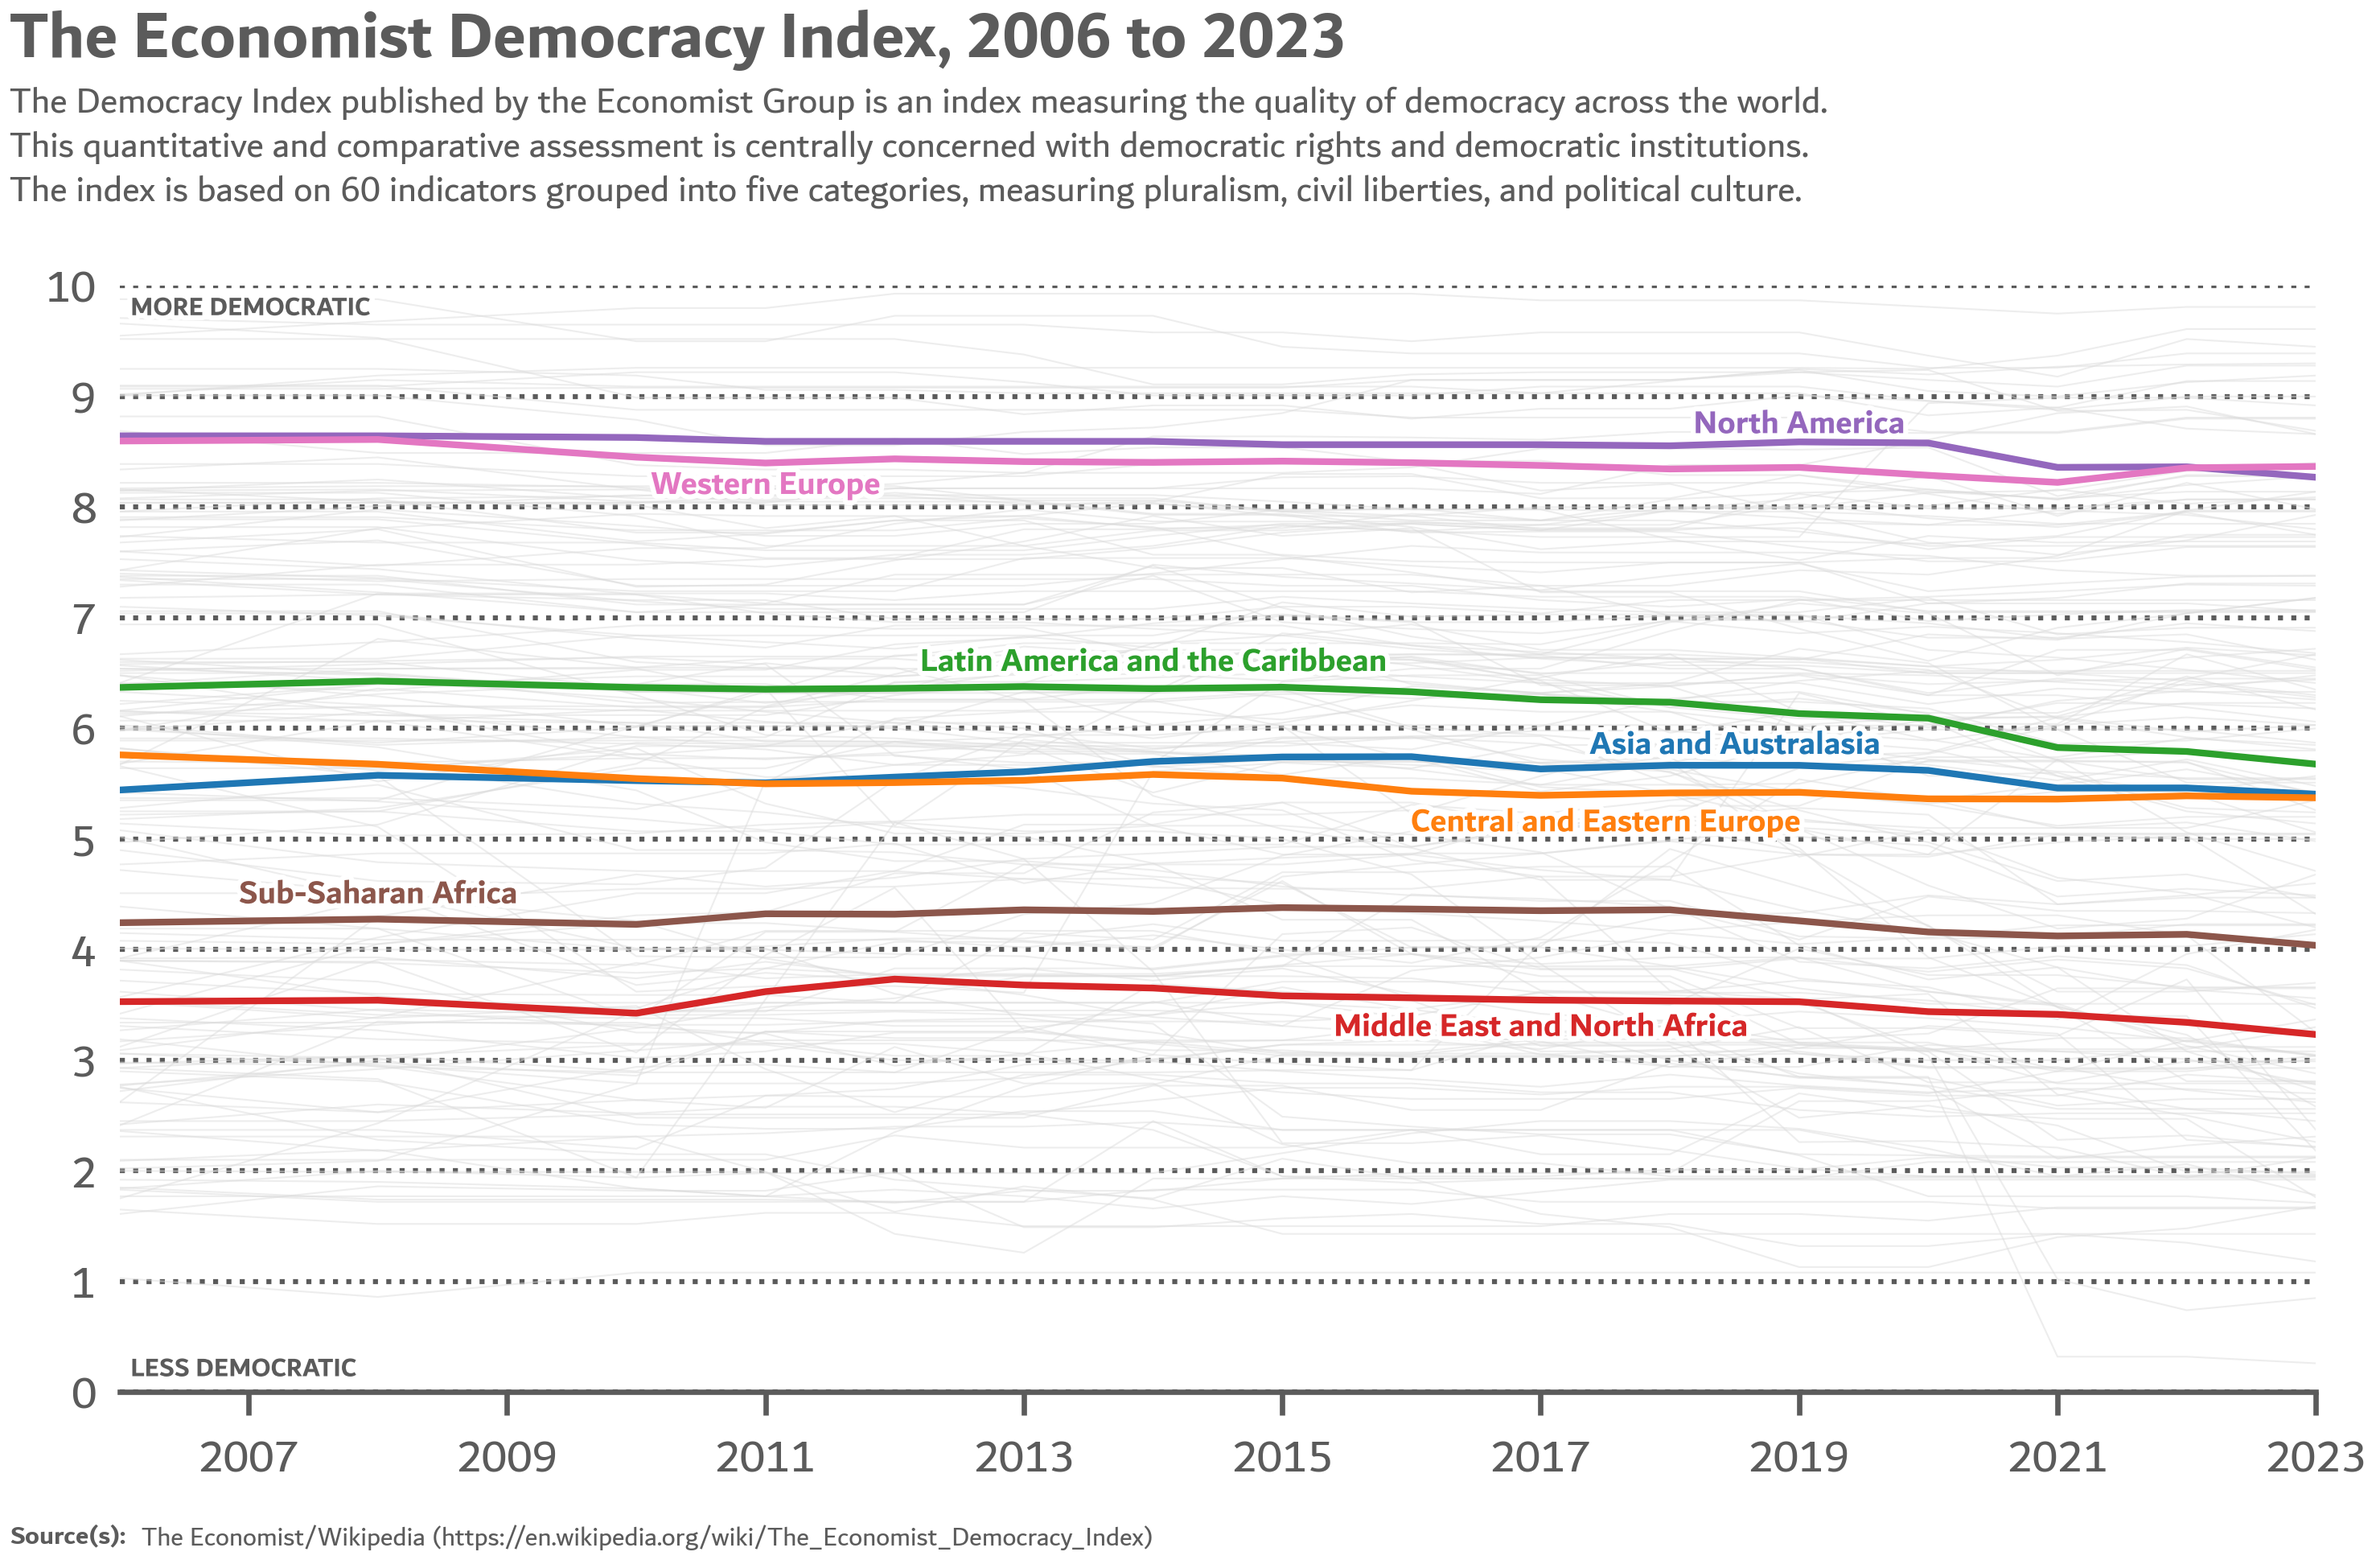
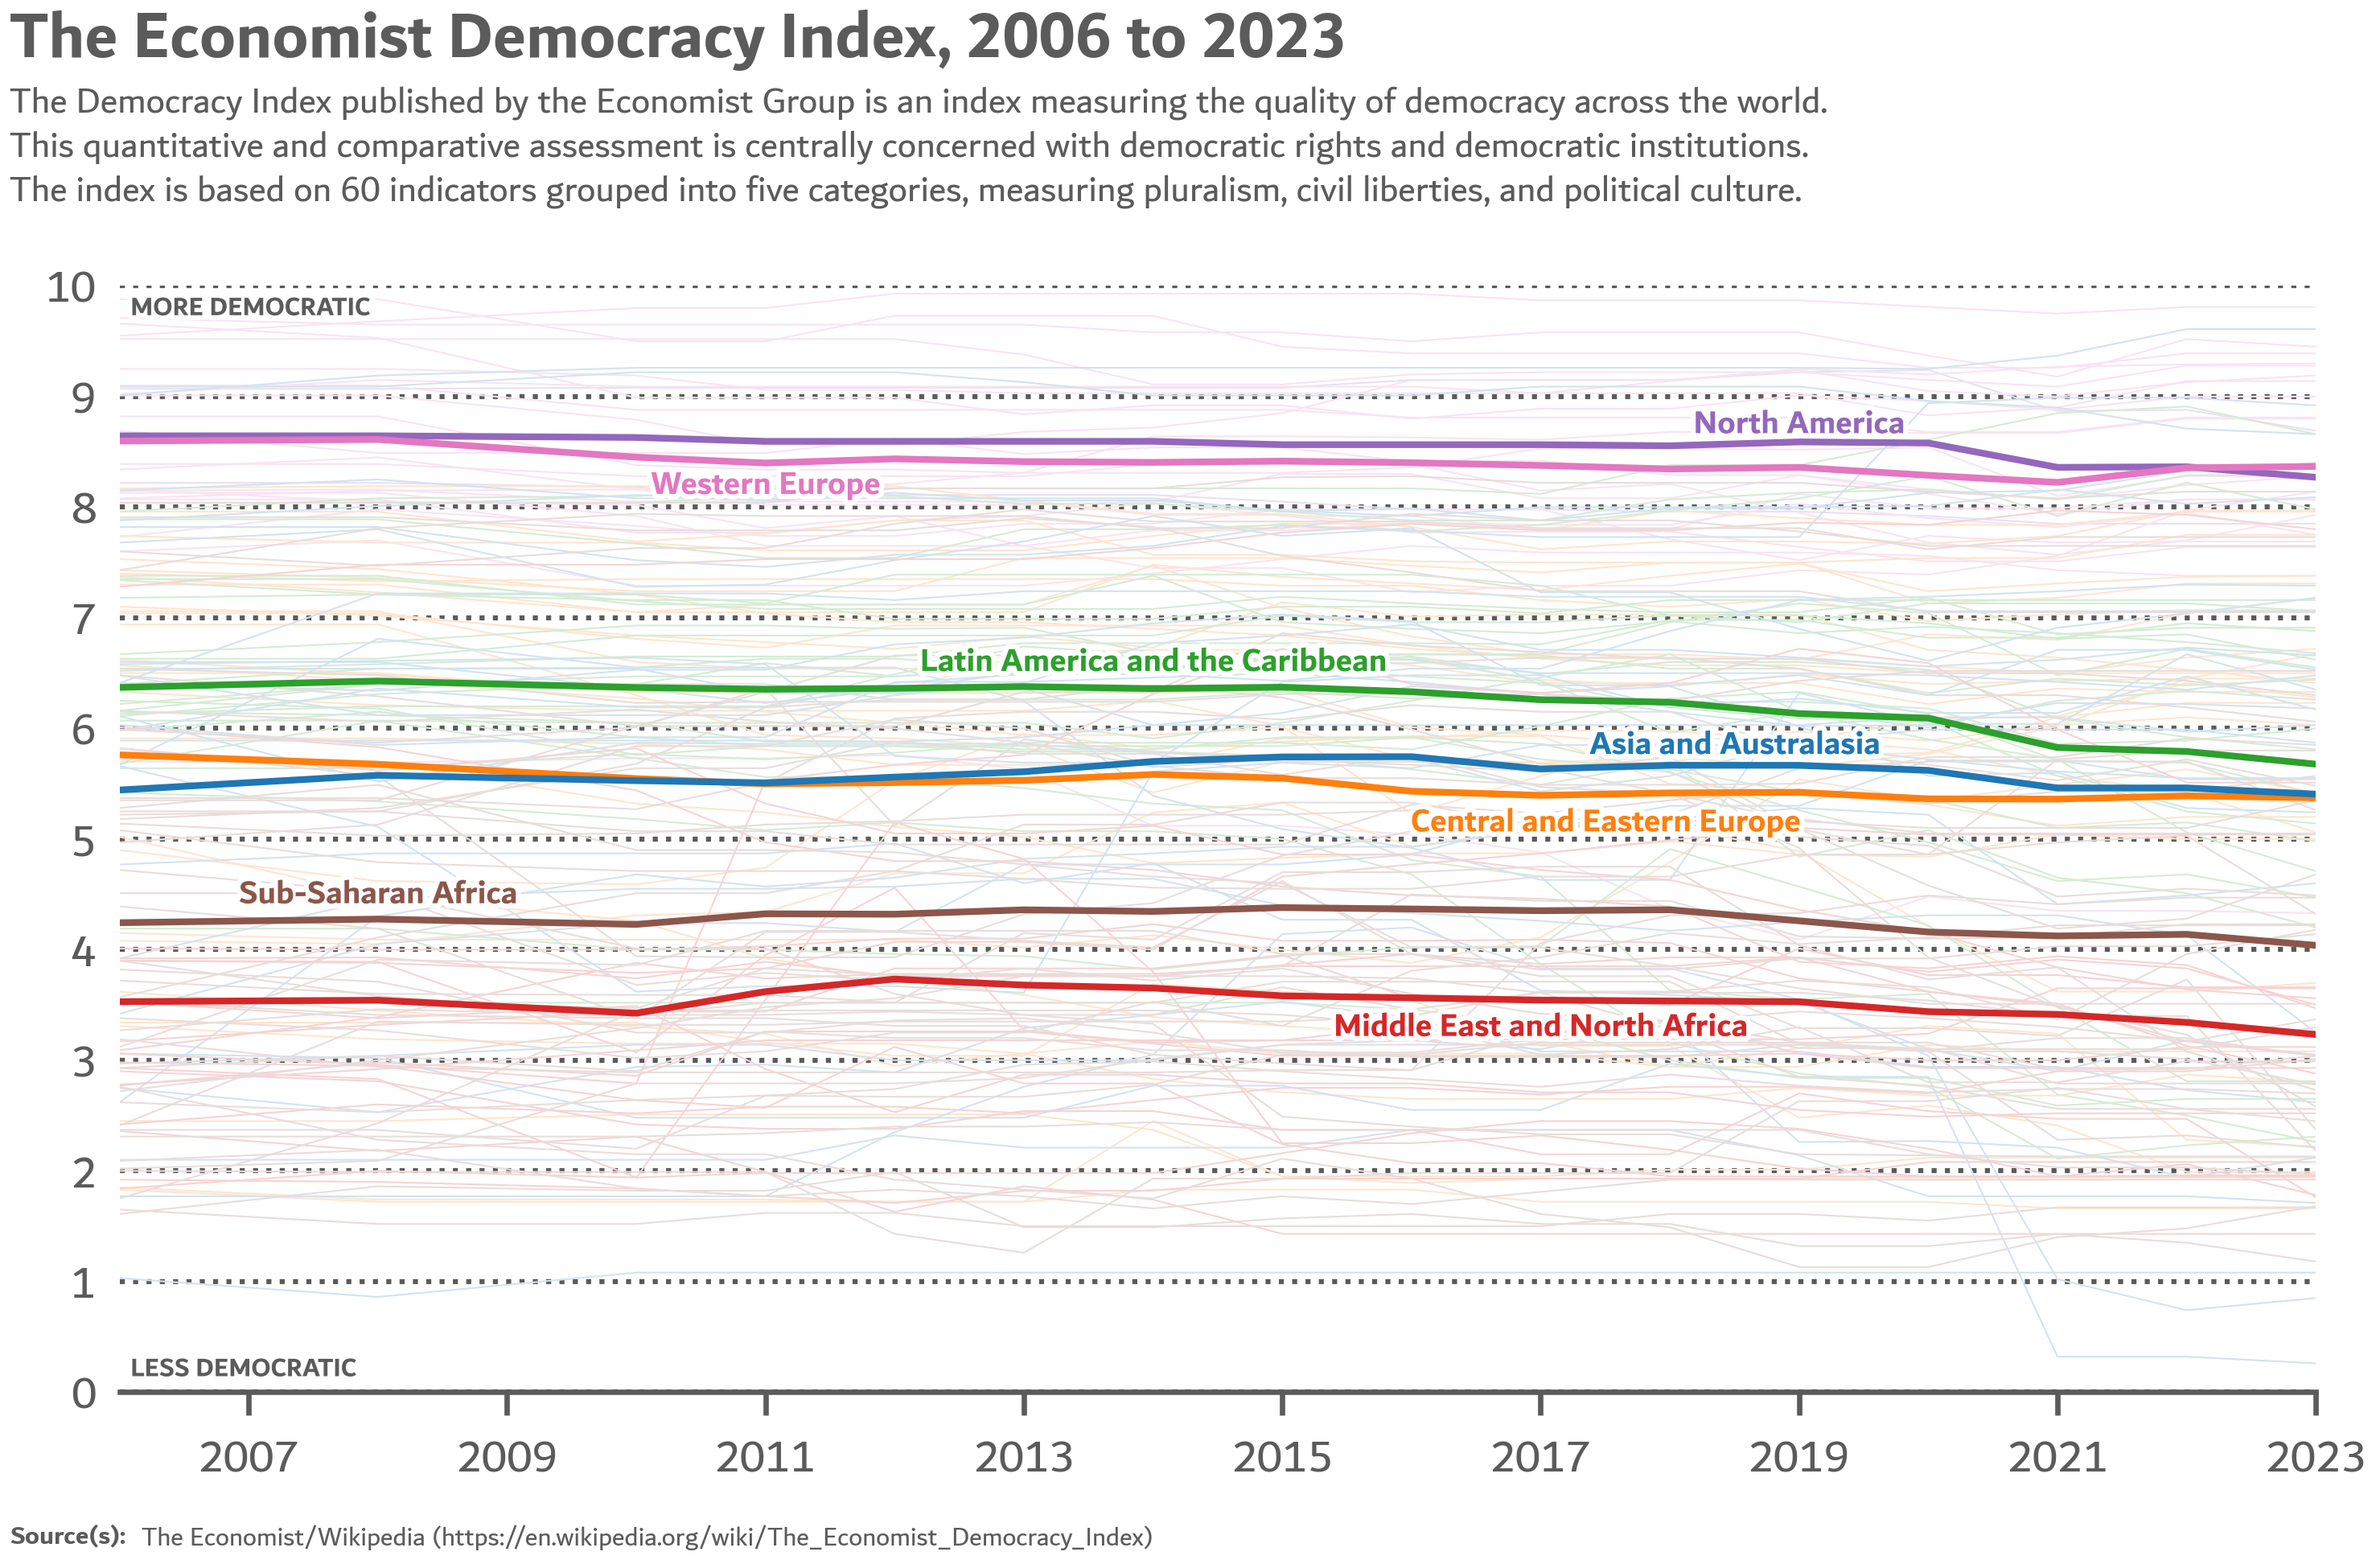
Update region colors.

diff --git a/src/plots.py b/src/plots.py
@@ -3,13 +3,14 @@ import matplotlib.patheffects as pe
 
 from colors import Colors
 from dataset import Data
+from config import Config
 
 plt.style.use("./styles/line.mplstyle")
 
 
 def plot_evolution_regions():
     data = Data()
-    colors = Colors()
+    config = Config()
 
     fig, ax = plt.subplots()
 
@@ -20,42 +21,24 @@ def plot_evolution_regions():
 
     for country in data.df["Country"].unique():
         country_data = data.df[data.df["Country"] == country]
-        ax.plot(country_data["Year"], country_data["DemocracyIndex"],
-                color=colors.BACKGROUND_LINE, lw=0.25, alpha=0.5)
+        ax.plot(
+            country_data["Year"], country_data["DemocracyIndex"], lw=0.25,
+            color=config.region_bg_colors[country_data["Region"].values[0]])
 
+    regions = data.df["Region"].unique()
+    regions_xpos = dict(zip(regions,
+                            [2019, 2011, 2017.5, 2014, 2018.5, 2017, 2008]))
+    regions_ypos = dict(zip(regions,
+                            [8.75, 8.2, 5.15, 6.6, 5.85, 3.3, 4.5]))
     region_df = data.get_region_averages()
-    for i, region in enumerate(region_df["Region"].unique()):
+    for region in regions:
         region_data = region_df[region_df["Region"] == region]
         ax.plot(region_data["Year"], region_data["DemocracyIndex"],
-                color=colors.PALETTE[i])
-    ax.text(s="Asia and Australasia", x=2018.5, y=5.85,
-            va="center", ha="center", color=colors.PALETTE[0], weight=600,
-            path_effects=[pe.withStroke(
-                linewidth=1.5, foreground="w")])
-    ax.text(s="Central and Eastern Europe", x=2017.5, y=5.15,
-            va="center", ha="center", color=colors.PALETTE[1], weight=600,
-            path_effects=[pe.withStroke(
-                linewidth=1.5, foreground="w")])
-    ax.text(s="Latin America and the Caribbean", x=2014, y=6.6,
-            va="center", ha="center", color=colors.PALETTE[2], weight=600,
-            path_effects=[pe.withStroke(
-                linewidth=1.5, foreground="w")])
-    ax.text(s="Middle East and North Africa", x=2017, y=3.3,
-            va="center", ha="center", color=colors.PALETTE[3], weight=600,
-            path_effects=[pe.withStroke(
-                linewidth=1.5, foreground="w")])
-    ax.text(s="North America", x=2019, y=8.75,
-            va="center", ha="center", color=colors.PALETTE[4], weight=600,
-            path_effects=[pe.withStroke(
-                linewidth=1.5, foreground="w")])
-    ax.text(s="Sub-Saharan Africa", x=2008, y=4.5,
-            va="center", ha="center", color=colors.PALETTE[5], weight=600,
-            path_effects=[pe.withStroke(
-                linewidth=1.5, foreground="w")])
-    ax.text(s="Western Europe", x=2011, y=8.2,
-            va="center", ha="center", color=colors.PALETTE[6], weight=600,
-            path_effects=[pe.withStroke(
-                linewidth=1.5, foreground="w")])
+                color=config.region_colors[region])
+        ax.text(s=region, x=regions_xpos[region], y=regions_ypos[region],
+                va="center", ha="center", color=config.region_colors[region],
+                weight=600, path_effects=[pe.withStroke(
+                    linewidth=1.5, foreground="w")])
 
     _add_texts(ax)
 
@@ -78,11 +61,11 @@ def plot_evolution_countries():
         ax.plot(country_data["Year"], country_data["DemocracyIndex"],
                 color=colors.BACKGROUND_LINE, lw=0.25, alpha=0.5)
 
-    _add_country(ax, "Argentina", (2018, 7.25), colors.PALETTE[0])
-    _add_country(ax, "United States", (2021, 7.6), colors.PALETTE[1])
-    _add_country(ax, "Ireland", (2022, 9.4), colors.PALETTE[2])
-    _add_country(ax, "Canada", (2011, 9.3), colors.PALETTE[3])
-    _add_country(ax, "Norway", (2018, 9.6), colors.PALETTE[4])
+    _add_country(ax, "Argentina", (2018, 7.25), colors.BLUE)
+    _add_country(ax, "United States", (2021, 7.6), colors.ORANGE)
+    _add_country(ax, "Ireland", (2022, 9.4), colors.GREEN)
+    _add_country(ax, "Canada", (2011, 9.3), colors.RED)
+    _add_country(ax, "Norway", (2018, 9.6), colors.PURPLE)
 
     ax.text(s="World", x=2010, y=5.2, va="center", ha="center",
             color="#f1f3f5", weight=600)

diff --git a/src/colors.py b/src/colors.py
@@ -3,6 +3,8 @@ class Colors:
         self.LINE = "black"
         self.BACKGROUND_LINE = "gainsboro"
         self.BLACK = "black"
+        self.GRAY = "#7f7f7f"
+
         self.BLUE = "#1f77b4"
         self.ORANGE = "#ff7f0e"
         self.GREEN = "#2ca02c"
@@ -10,6 +12,23 @@ class Colors:
         self.PURPLE = "#9467bd"
         self.BROWN = "#8c564b"
         self.PINK = "#e377c2"
-        self.GRAY = "#7f7f7f"
-        self.PALETTE = [self.BLUE, self.ORANGE, self.GREEN, self.RED,
-                        self.PURPLE, self.BROWN, self.PINK, self.GRAY]
+
+        self.LIGHT_BLUE = "#d2e3f0"
+        self.LIGHT_ORANGE = "#ffe5ce"
+        self.LIGHT_GREEN = "#d4ecd4"
+        self.LIGHT_RED = "#f6d3d4"
+        self.LIGHT_PURPLE = "#e9e0f1"
+        self.LIGHT_BROWN = "#e8dddb"
+        self.LIGHT_PINK = "#f9e3f2"
+
+    @staticmethod
+    def get_opaque_hex_from_transparency(hex: str, transparency: float) -> str:
+        """
+        Convert a hex color to an opaque hex color with the given transparency.
+        """
+        hex = hex.lstrip("#")
+        r, g, b = tuple(int(hex[i:i + 2], 16) for i in (0, 2, 4))
+        r = int(255 - transparency * (255 - r))
+        g = int(255 - transparency * (255 - g))
+        b = int(255 - transparency * (255 - b))
+        return "#{:02x}{:02x}{:02x}".format(r, g, b)

diff --git a/src/config.py b/src/config.py
@@ -1,0 +1,26 @@
+from colors import Colors
+
+
+class Config:
+    def __init__(self):
+        colors = Colors()
+
+        self.region_colors = {
+            "North America": colors.PURPLE,
+            "Western Europe": colors.PINK,
+            "Central and Eastern Europe": colors.ORANGE,
+            "Latin America and the Caribbean": colors.GREEN,
+            "Asia and Australasia": colors.BLUE,
+            "Middle East and North Africa": colors.RED,
+            "Sub-Saharan Africa": colors.BROWN,
+        }
+
+        self.region_bg_colors = {
+            "North America": colors.LIGHT_PURPLE,
+            "Western Europe": colors.LIGHT_PINK,
+            "Central and Eastern Europe": colors.LIGHT_ORANGE,
+            "Latin America and the Caribbean": colors.LIGHT_GREEN,
+            "Asia and Australasia": colors.LIGHT_BLUE,
+            "Middle East and North Africa": colors.LIGHT_RED,
+            "Sub-Saharan Africa": colors.LIGHT_BROWN,
+        }

diff --git a/tests/test_text_color.py b/tests/test_text_color.py
@@ -1,0 +1,20 @@
+import unittest
+from src.colors import Colors
+
+
+class TestColorClass(unittest.TestCase):
+    def test_opaque_from_transparency_01(self):
+        color = "#1f77b4"
+        target_color = "#d2e3f0"
+        new_color = Colors.get_opaque_hex_from_transparency(color, 0.2)
+        self.assertEqual(new_color, target_color)
+
+    def test_opaque_from_transparency_02(self):
+        color = "#ff7f0e"
+        target_color = "#ffe5ce"
+        new_color = Colors.get_opaque_hex_from_transparency(color, 0.2)
+        self.assertEqual(new_color, target_color)
+
+
+if __name__ == '__main__':
+    unittest.main()
